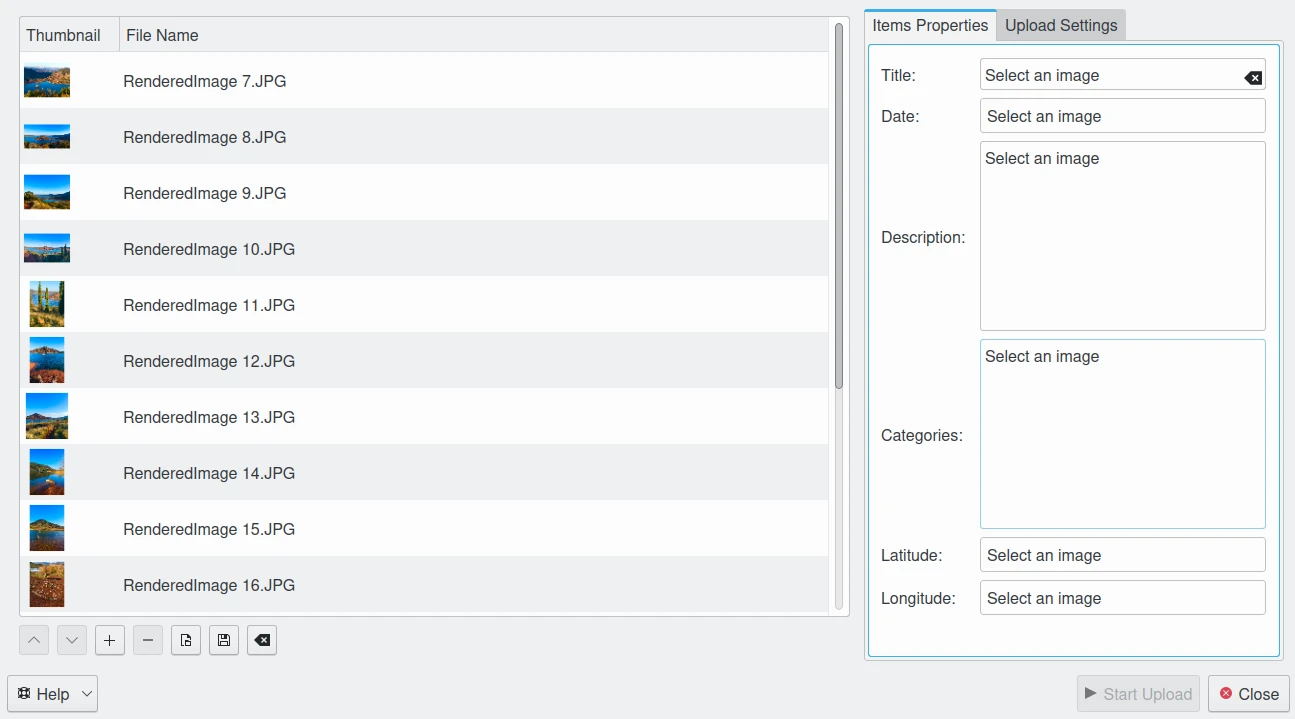
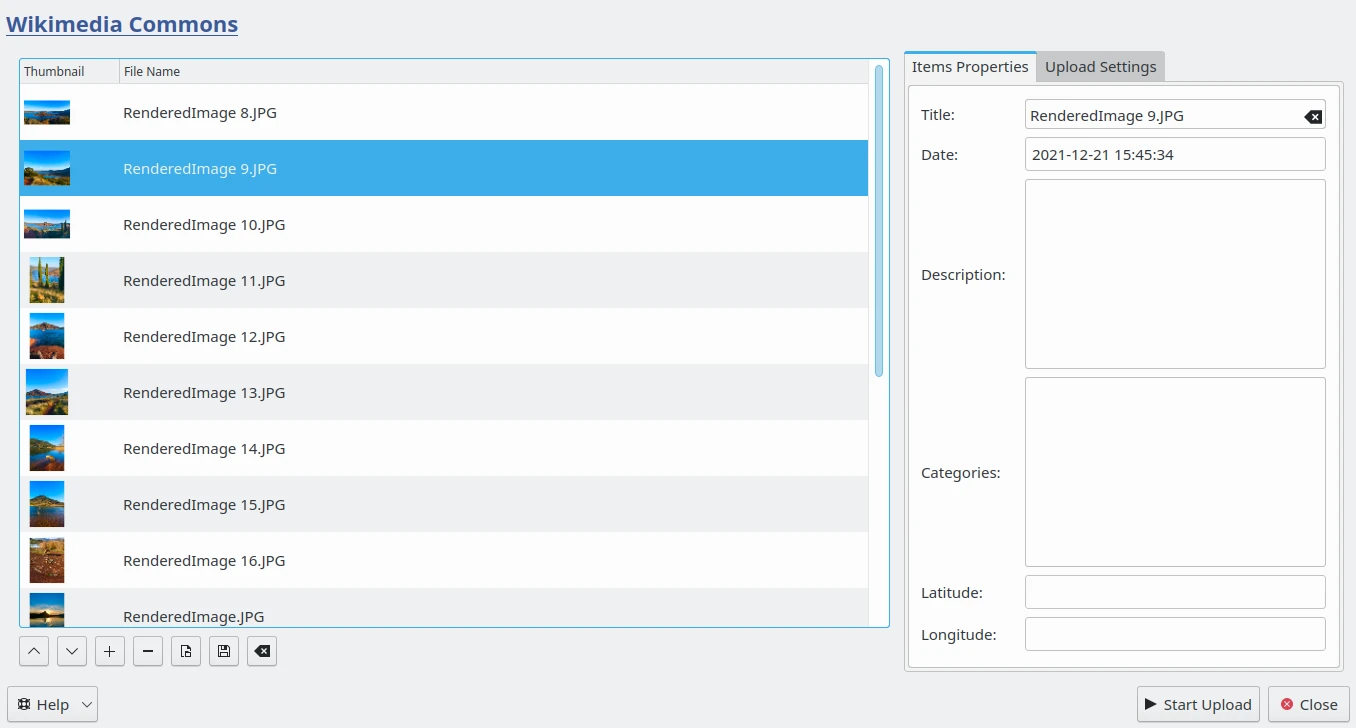
mediawiki++

diff --git a/export_tools/media_wiki.rst b/export_tools/media_wiki.rst
@@ -27,7 +27,7 @@ You can access to this tool by the :menuselection:`Export --> Export to MediaWik
 
     The MediaWiki Export Dialog
 
-.. figure:: images/export_media_wiki_account.webp
+.. figure:: images/export_media_wiki_login.webp
     :alt:
     :align: center
 
@@ -44,3 +44,21 @@ You can access to this tool by the :menuselection:`Export --> Export to MediaWik
     :align: center
 
     The MediaWiki Export Options Settings
+
+.. figure:: images/export_media_wiki_account.webp
+    :alt:
+    :align: center
+
+    The MediaWiki Export Connected to the Web Service with an Account
+
+.. figure:: images/export_media_wiki_progress.webp
+    :alt:
+    :align: center
+
+    The MediaWiki Export Uploding Contents to the Web Service
+
+.. figure:: images/export_media_wiki_stream.webp
+    :alt:
+    :align: center
+
+    The MediaWiki Online Account Displaying the Uploaded Contents
